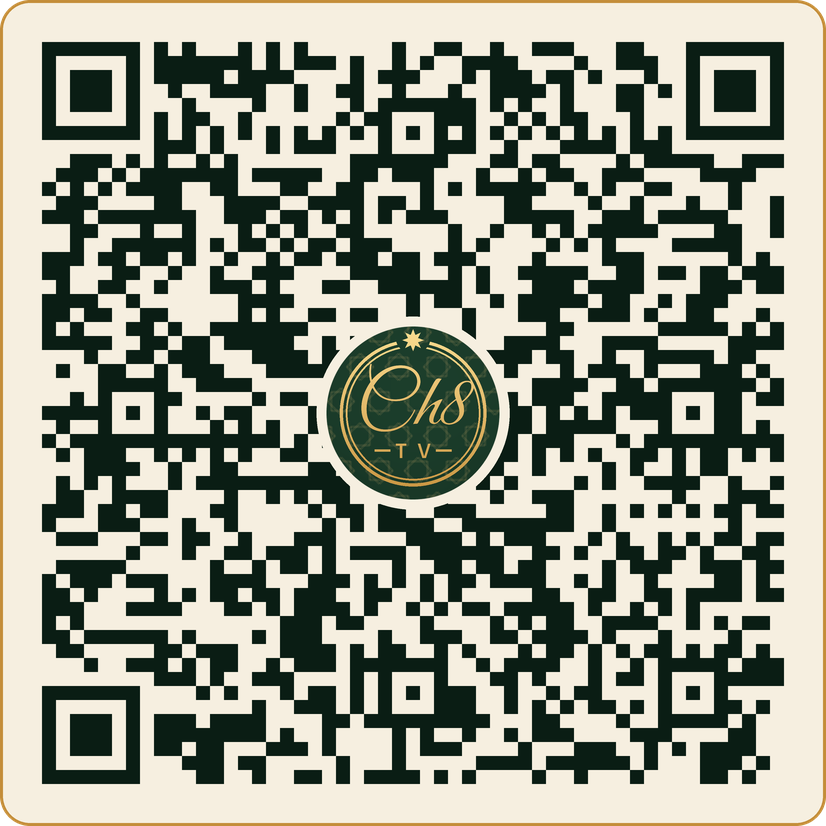
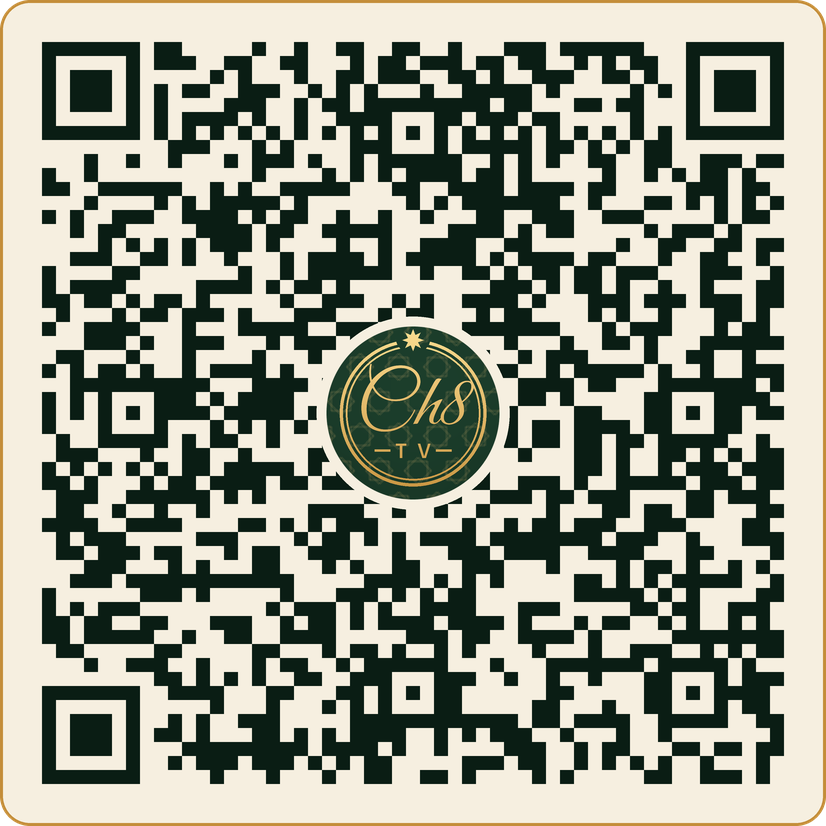
README and QR point at the versioned 1.3 APK

diff --git a/README.md b/README.md
@@ -1,6 +1,6 @@
 <p align="center"><img src="docs/media/logo.png" alt="ChouiTV Installer logo (Ch8TV)" width="132"></p>
 
-<p align="center"><a href="https://github.com/EMCHOUIT/ChouiTV-Installer/releases/latest/download/ChouiTV-Installer.apk"><img src="docs/media/hero-ar.png" alt="ChouiTV Installer: ثبّت ChouiTV على تلفزيونك من هاتفك" width="100%"></a></p>
+<p align="center"><a href="https://github.com/EMCHOUIT/ChouiTV-Installer/releases/download/v1.3/ChouiTV-Installer-1.3.apk"><img src="docs/media/hero-ar.png" alt="ChouiTV Installer: ثبّت ChouiTV على تلفزيونك من هاتفك" width="100%"></a></p>
 
 <p align="center"><b>🇲🇦 العربية</b> &nbsp;·&nbsp; <a href="README.fr.md">🇫🇷 Français</a> &nbsp;·&nbsp; <a href="README.en.md">🇬🇧 English</a></p>
 
@@ -17,7 +17,7 @@
 
 تطبيق صغير على هاتفك يجد تلفزيونك، فينظّفه إن شئت، وينزّل **أحدث إصدار** من [ChouiTV](https://github.com/EMCHOUIT/ChouiTV) ويثبّته ويضبطه، ثم ينقل إعداداتك إلى تلفزيون آخر. **يرشدك خطوة بخطوة، أو تختار بنفسك. بلا كمبيوتر ولا أوامر.**
 
-<p align="center"><a href="https://github.com/EMCHOUIT/ChouiTV-Installer/releases/latest/download/ChouiTV-Installer.apk"><img src="https://img.shields.io/badge/%E2%AC%87%20نزّل%20ChouiTV%20Installer-D6AF6B?style=for-the-badge&labelColor=0A1D14" alt="download"></a><br><sub>لهاتف أندرويد 8 أو أحدث · الملف نحو 1 ميغابايت</sub></p>
+<p align="center"><a href="https://github.com/EMCHOUIT/ChouiTV-Installer/releases/download/v1.3/ChouiTV-Installer-1.3.apk"><img src="https://img.shields.io/badge/%E2%AC%87%20نزّل%20ChouiTV%20Installer-D6AF6B?style=for-the-badge&labelColor=0A1D14" alt="download"></a><br><sub>لهاتف أندرويد 8 أو أحدث · الملف نحو 1 ميغابايت</sub></p>
 
 <a id="why"></a>
 
@@ -173,7 +173,7 @@ cd ChouiTV-Installer
 
 <p align="center"><img src="docs/media/qr-download.png" alt="QR code" width="230"><br><sub>امسح الرمز من شاشة حاسوبك لفتح الرابط على هاتفك.</sub></p>
 
-<p align="center"><a href="https://github.com/EMCHOUIT/ChouiTV-Installer/releases/latest/download/ChouiTV-Installer.apk"><img src="https://img.shields.io/badge/%E2%AC%87%20%D9%86%D8%B2%D9%91%D9%84%20%D9%85%D9%84%D9%81%20APK-D6AF6B?style=for-the-badge&labelColor=0A1D14" alt="⬇ نزّل ملف APK"></a><br><sub><code>ChouiTV-Installer.apk</code> · نحو 1 ميغابايت</sub></p>
+<p align="center"><a href="https://github.com/EMCHOUIT/ChouiTV-Installer/releases/download/v1.3/ChouiTV-Installer-1.3.apk"><img src="https://img.shields.io/badge/%E2%AC%87%20%D9%86%D8%B2%D9%91%D9%84%20%D9%85%D9%84%D9%81%20APK-D6AF6B?style=for-the-badge&labelColor=0A1D14" alt="⬇ نزّل ملف APK"></a><br><sub><code>ChouiTV-Installer-1.3.apk</code> · نحو 1 ميغابايت</sub></p>
 
 <p align="center"><a href="https://github.com/EMCHOUIT/ChouiTV-Installer/releases/latest"><img src="https://img.shields.io/github/v/release/EMCHOUIT/ChouiTV-Installer?label=version&color=D6AF6B&labelColor=0A1D14" alt="version"></a> <a href="https://github.com/EMCHOUIT/ChouiTV-Installer/releases"><img src="https://img.shields.io/github/downloads/EMCHOUIT/ChouiTV-Installer/total?label=downloads&color=3F7A5C&labelColor=0A1D14" alt="downloads"></a></p>
 
@@ -182,7 +182,7 @@ cd ChouiTV-Installer
 <h3 align="center">التثبيت في ثلاث خطوات</h3>
 
 <table align="center" dir="rtl">
-<tr><td width="33%" valign="top" align="center">1⃣<br><br><b>نزّل</b> الملف <code>ChouiTV-Installer.apk</code> على هاتفك (الزر أعلاه، أو امسح الرمز من شاشة أخرى).</td><td width="33%" valign="top" align="center">2⃣<br><br><b>افتحه.</b> إن طلب أندرويد إذنًا فاسمح مرة واحدة للمتصفح أو لمدير الملفات بتثبيت التطبيقات. وقد يظهر تحذير «تطبيق غير معروف»: الشيفرة مفتوحة وتستطيع بناءها بنفسك (<a href="#build">البناء</a>).</td><td width="33%" valign="top" align="center">3⃣<br><br><b>افتح ChouiTV Installer</b> واتبع الخطوات.</td></tr>
+<tr><td width="33%" valign="top" align="center">1⃣<br><br><b>نزّل</b> الملف <code>ChouiTV-Installer-1.3.apk</code> على هاتفك (الزر أعلاه، أو امسح الرمز من شاشة أخرى).</td><td width="33%" valign="top" align="center">2⃣<br><br><b>افتحه.</b> إن طلب أندرويد إذنًا فاسمح مرة واحدة للمتصفح أو لمدير الملفات بتثبيت التطبيقات. وقد يظهر تحذير «تطبيق غير معروف»: الشيفرة مفتوحة وتستطيع بناءها بنفسك (<a href="#build">البناء</a>).</td><td width="33%" valign="top" align="center">3⃣<br><br><b>افتح ChouiTV Installer</b> واتبع الخطوات.</td></tr>
 </table>
 
 <div align="center">
@@ -192,8 +192,8 @@ cd ChouiTV-Installer
 تعرض [صفحة الإصدار](https://github.com/EMCHOUIT/ChouiTV-Installer/releases/latest) بصمة SHA-256 بجانب الملف. قارنها بنتيجة الأمر:
 
 ```bash
-sha256sum ChouiTV-Installer.apk                       # Linux, macOS
-certutil -hashfile ChouiTV-Installer.apk SHA256       # Windows
+sha256sum ChouiTV-Installer-1.3.apk                       # Linux, macOS
+certutil -hashfile ChouiTV-Installer-1.3.apk SHA256       # Windows
 ```
 
 وبصمة شهادة التوقيع (SHA-256) واحدة في كل الإصدارات:
@@ -205,7 +205,7 @@ f29f993b7456170455dcc574a2bc5f1f74b97f7995a564f8a839175d068a79c1
 للتحقق منها:
 
 ```bash
-apksigner verify --print-certs ChouiTV-Installer.apk
+apksigner verify --print-certs ChouiTV-Installer-1.3.apk
 ```
 </details>
 

diff --git a/README.fr.md b/README.fr.md
@@ -1,6 +1,6 @@
 <p align="center"><img src="docs/media/logo.png" alt="ChouiTV Installer logo (Ch8TV)" width="132"></p>
 
-<p align="center"><a href="https://github.com/EMCHOUIT/ChouiTV-Installer/releases/latest/download/ChouiTV-Installer.apk"><img src="docs/media/hero-fr.png" alt="ChouiTV Installer : installez ChouiTV sur votre télé depuis votre téléphone" width="100%"></a></p>
+<p align="center"><a href="https://github.com/EMCHOUIT/ChouiTV-Installer/releases/download/v1.3/ChouiTV-Installer-1.3.apk"><img src="docs/media/hero-fr.png" alt="ChouiTV Installer : installez ChouiTV sur votre télé depuis votre téléphone" width="100%"></a></p>
 
 <p align="center"><a href="README.md">🇲🇦 العربية</a> &nbsp;·&nbsp; <b>🇫🇷 Français</b> &nbsp;·&nbsp; <a href="README.en.md">🇬🇧 English</a></p>
 
@@ -15,7 +15,7 @@
 
 Une petite appli sur votre téléphone qui trouve votre télé, la nettoie si vous le voulez, télécharge la **dernière version** de [ChouiTV](https://github.com/EMCHOUIT/ChouiTV), l'installe et la règle, puis copie vos réglages sur une autre télé. **Elle vous guide pas à pas, ou vous choisissez vous-même. Sans ordinateur, sans commande.**
 
-<p align="center"><a href="https://github.com/EMCHOUIT/ChouiTV-Installer/releases/latest/download/ChouiTV-Installer.apk"><img src="https://img.shields.io/badge/%E2%AC%87%20Télécharger%20ChouiTV%20Installer-D6AF6B?style=for-the-badge&labelColor=0A1D14" alt="download"></a><br><sub>Pour téléphone Android 8 ou plus · environ 1 Mo</sub></p>
+<p align="center"><a href="https://github.com/EMCHOUIT/ChouiTV-Installer/releases/download/v1.3/ChouiTV-Installer-1.3.apk"><img src="https://img.shields.io/badge/%E2%AC%87%20Télécharger%20ChouiTV%20Installer-D6AF6B?style=for-the-badge&labelColor=0A1D14" alt="download"></a><br><sub>Pour téléphone Android 8 ou plus · environ 1 Mo</sub></p>
 
 <a id="why"></a>
 
@@ -155,7 +155,7 @@ cd ChouiTV-Installer
 
 <p align="center"><img src="docs/media/qr-download.png" alt="QR code" width="230"><br><sub>Scannez depuis votre ordinateur pour ouvrir le lien sur votre téléphone.</sub></p>
 
-<p align="center"><a href="https://github.com/EMCHOUIT/ChouiTV-Installer/releases/latest/download/ChouiTV-Installer.apk"><img src="https://img.shields.io/badge/%E2%AC%87%20T%C3%A9l%C3%A9charger%20l%27APK-D6AF6B?style=for-the-badge&labelColor=0A1D14" alt="⬇ Télécharger l'APK"></a><br><sub><code>ChouiTV-Installer.apk</code> · environ 1 Mo</sub></p>
+<p align="center"><a href="https://github.com/EMCHOUIT/ChouiTV-Installer/releases/download/v1.3/ChouiTV-Installer-1.3.apk"><img src="https://img.shields.io/badge/%E2%AC%87%20T%C3%A9l%C3%A9charger%20l%27APK-D6AF6B?style=for-the-badge&labelColor=0A1D14" alt="⬇ Télécharger l'APK"></a><br><sub><code>ChouiTV-Installer-1.3.apk</code> · environ 1 Mo</sub></p>
 
 <p align="center"><a href="https://github.com/EMCHOUIT/ChouiTV-Installer/releases/latest"><img src="https://img.shields.io/github/v/release/EMCHOUIT/ChouiTV-Installer?label=version&color=D6AF6B&labelColor=0A1D14" alt="version"></a> <a href="https://github.com/EMCHOUIT/ChouiTV-Installer/releases"><img src="https://img.shields.io/github/downloads/EMCHOUIT/ChouiTV-Installer/total?label=downloads&color=3F7A5C&labelColor=0A1D14" alt="downloads"></a></p>
 
@@ -164,7 +164,7 @@ cd ChouiTV-Installer
 <h3 align="center">Installer en trois gestes</h3>
 
 <table align="center">
-<tr><td width="33%" valign="top" align="center">1⃣<br><br><b>Téléchargez</b> le fichier <code>ChouiTV-Installer.apk</code> sur votre téléphone (le bouton ci-dessus, ou le QR code depuis un autre écran).</td><td width="33%" valign="top" align="center">2⃣<br><br><b>Ouvrez-le.</b> Si Android demande une autorisation, acceptez une fois que votre navigateur ou votre gestionnaire de fichiers installe des applis. Un avertissement « appli inconnue » peut apparaître : le code est ouvert et vous pouvez le compiler vous-même (<a href="#build">Compiler</a>).</td><td width="33%" valign="top" align="center">3⃣<br><br><b>Ouvrez ChouiTV Installer</b> et suivez les étapes.</td></tr>
+<tr><td width="33%" valign="top" align="center">1⃣<br><br><b>Téléchargez</b> le fichier <code>ChouiTV-Installer-1.3.apk</code> sur votre téléphone (le bouton ci-dessus, ou le QR code depuis un autre écran).</td><td width="33%" valign="top" align="center">2⃣<br><br><b>Ouvrez-le.</b> Si Android demande une autorisation, acceptez une fois que votre navigateur ou votre gestionnaire de fichiers installe des applis. Un avertissement « appli inconnue » peut apparaître : le code est ouvert et vous pouvez le compiler vous-même (<a href="#build">Compiler</a>).</td><td width="33%" valign="top" align="center">3⃣<br><br><b>Ouvrez ChouiTV Installer</b> et suivez les étapes.</td></tr>
 </table>
 
 <div align="center">
@@ -174,8 +174,8 @@ cd ChouiTV-Installer
 La [page de la version](https://github.com/EMCHOUIT/ChouiTV-Installer/releases/latest) affiche l'empreinte SHA-256 à côté du fichier. Comparez-la au résultat de :
 
 ```bash
-sha256sum ChouiTV-Installer.apk                       # Linux, macOS
-certutil -hashfile ChouiTV-Installer.apk SHA256       # Windows
+sha256sum ChouiTV-Installer-1.3.apk                       # Linux, macOS
+certutil -hashfile ChouiTV-Installer-1.3.apk SHA256       # Windows
 ```
 
 L'empreinte du certificat de signature (SHA-256) est la même pour toutes les versions :
@@ -187,7 +187,7 @@ f29f993b7456170455dcc574a2bc5f1f74b97f7995a564f8a839175d068a79c1
 Pour la vérifier :
 
 ```bash
-apksigner verify --print-certs ChouiTV-Installer.apk
+apksigner verify --print-certs ChouiTV-Installer-1.3.apk
 ```
 </details>
 

diff --git a/README.en.md b/README.en.md
@@ -1,6 +1,6 @@
 <p align="center"><img src="docs/media/logo.png" alt="ChouiTV Installer logo (Ch8TV)" width="132"></p>
 
-<p align="center"><a href="https://github.com/EMCHOUIT/ChouiTV-Installer/releases/latest/download/ChouiTV-Installer.apk"><img src="docs/media/hero-en.png" alt="ChouiTV Installer: install ChouiTV on your TV from your phone" width="100%"></a></p>
+<p align="center"><a href="https://github.com/EMCHOUIT/ChouiTV-Installer/releases/download/v1.3/ChouiTV-Installer-1.3.apk"><img src="docs/media/hero-en.png" alt="ChouiTV Installer: install ChouiTV on your TV from your phone" width="100%"></a></p>
 
 <p align="center"><a href="README.md">🇲🇦 العربية</a> &nbsp;·&nbsp; <a href="README.fr.md">🇫🇷 Français</a> &nbsp;·&nbsp; <b>🇬🇧 English</b></p>
 
@@ -15,7 +15,7 @@
 
 A small app on your phone that finds your TV, cleans it if you want, downloads the **latest version** of [ChouiTV](https://github.com/EMCHOUIT/ChouiTV), installs and sets it up, then copies your settings to another TV. **It guides you step by step, or you choose yourself. No computer, no commands.**
 
-<p align="center"><a href="https://github.com/EMCHOUIT/ChouiTV-Installer/releases/latest/download/ChouiTV-Installer.apk"><img src="https://img.shields.io/badge/%E2%AC%87%20Download%20ChouiTV%20Installer-D6AF6B?style=for-the-badge&labelColor=0A1D14" alt="download"></a><br><sub>For Android 8+ phones · about 1 MB</sub></p>
+<p align="center"><a href="https://github.com/EMCHOUIT/ChouiTV-Installer/releases/download/v1.3/ChouiTV-Installer-1.3.apk"><img src="https://img.shields.io/badge/%E2%AC%87%20Download%20ChouiTV%20Installer-D6AF6B?style=for-the-badge&labelColor=0A1D14" alt="download"></a><br><sub>For Android 8+ phones · about 1 MB</sub></p>
 
 <a id="why"></a>
 
@@ -155,7 +155,7 @@ cd ChouiTV-Installer
 
 <p align="center"><img src="docs/media/qr-download.png" alt="QR code" width="230"><br><sub>Scan it from your computer to open the link on your phone.</sub></p>
 
-<p align="center"><a href="https://github.com/EMCHOUIT/ChouiTV-Installer/releases/latest/download/ChouiTV-Installer.apk"><img src="https://img.shields.io/badge/%E2%AC%87%20Download%20the%20APK-D6AF6B?style=for-the-badge&labelColor=0A1D14" alt="⬇ Download the APK"></a><br><sub><code>ChouiTV-Installer.apk</code> · about 1 MB</sub></p>
+<p align="center"><a href="https://github.com/EMCHOUIT/ChouiTV-Installer/releases/download/v1.3/ChouiTV-Installer-1.3.apk"><img src="https://img.shields.io/badge/%E2%AC%87%20Download%20the%20APK-D6AF6B?style=for-the-badge&labelColor=0A1D14" alt="⬇ Download the APK"></a><br><sub><code>ChouiTV-Installer-1.3.apk</code> · about 1 MB</sub></p>
 
 <p align="center"><a href="https://github.com/EMCHOUIT/ChouiTV-Installer/releases/latest"><img src="https://img.shields.io/github/v/release/EMCHOUIT/ChouiTV-Installer?label=version&color=D6AF6B&labelColor=0A1D14" alt="version"></a> <a href="https://github.com/EMCHOUIT/ChouiTV-Installer/releases"><img src="https://img.shields.io/github/downloads/EMCHOUIT/ChouiTV-Installer/total?label=downloads&color=3F7A5C&labelColor=0A1D14" alt="downloads"></a></p>
 
@@ -164,7 +164,7 @@ cd ChouiTV-Installer
 <h3 align="center">Install in three steps</h3>
 
 <table align="center">
-<tr><td width="33%" valign="top" align="center">1⃣<br><br><b>Download</b> the <code>ChouiTV-Installer.apk</code> file on your phone (the button above, or the QR code from another screen).</td><td width="33%" valign="top" align="center">2⃣<br><br><b>Open it.</b> If Android asks for permission, allow your browser or file manager to install apps once. An "unknown app" warning may appear: the code is open and you can build it yourself (<a href="#build">Build</a>).</td><td width="33%" valign="top" align="center">3⃣<br><br><b>Open ChouiTV Installer</b> and follow the steps.</td></tr>
+<tr><td width="33%" valign="top" align="center">1⃣<br><br><b>Download</b> the <code>ChouiTV-Installer-1.3.apk</code> file on your phone (the button above, or the QR code from another screen).</td><td width="33%" valign="top" align="center">2⃣<br><br><b>Open it.</b> If Android asks for permission, allow your browser or file manager to install apps once. An "unknown app" warning may appear: the code is open and you can build it yourself (<a href="#build">Build</a>).</td><td width="33%" valign="top" align="center">3⃣<br><br><b>Open ChouiTV Installer</b> and follow the steps.</td></tr>
 </table>
 
 <div align="center">
@@ -174,8 +174,8 @@ cd ChouiTV-Installer
 The [release page](https://github.com/EMCHOUIT/ChouiTV-Installer/releases/latest) shows the SHA-256 next to the file. Compare it with the result of:
 
 ```bash
-sha256sum ChouiTV-Installer.apk                       # Linux, macOS
-certutil -hashfile ChouiTV-Installer.apk SHA256       # Windows
+sha256sum ChouiTV-Installer-1.3.apk                       # Linux, macOS
+certutil -hashfile ChouiTV-Installer-1.3.apk SHA256       # Windows
 ```
 
 The signing certificate fingerprint (SHA-256) is the same for every version:
@@ -187,7 +187,7 @@ f29f993b7456170455dcc574a2bc5f1f74b97f7995a564f8a839175d068a79c1
 To check it:
 
 ```bash
-apksigner verify --print-certs ChouiTV-Installer.apk
+apksigner verify --print-certs ChouiTV-Installer-1.3.apk
 ```
 </details>
 
